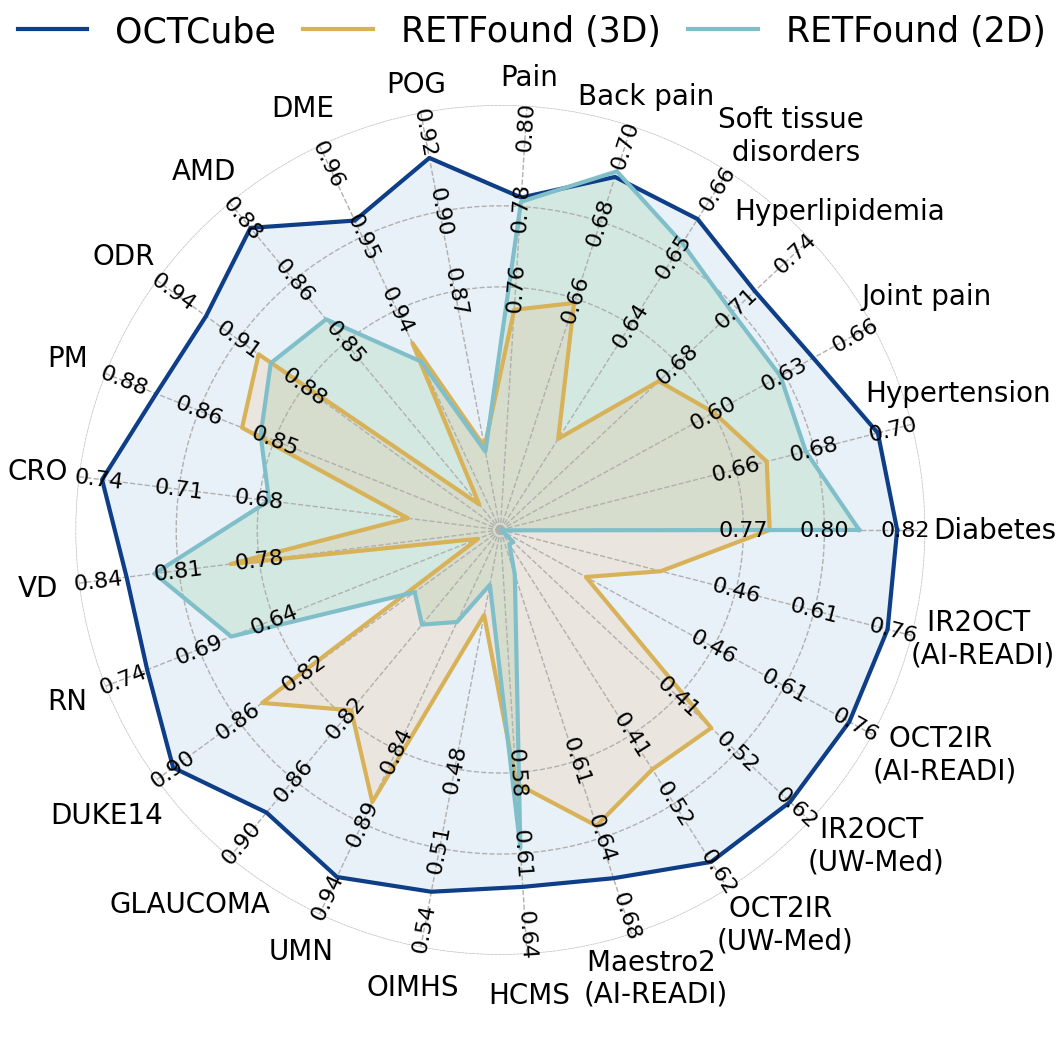
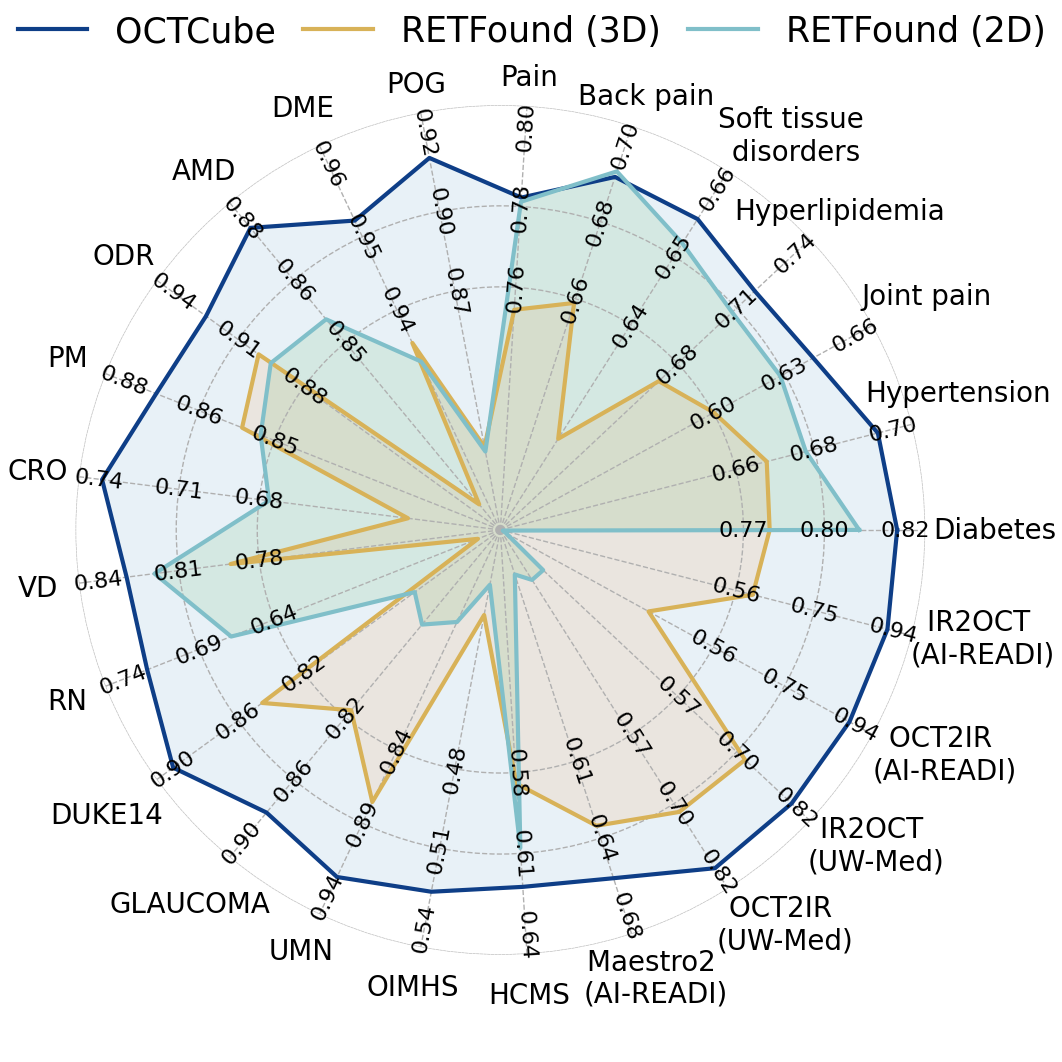
update results

diff --git a/retclip_plot_ci_together.py b/retclip_plot_ci_together.py
@@ -51,7 +51,7 @@ prefix_mapping = {'OCT_to_IR': 'image_to_text', 'IR_to_OCT': 'text_to_image'}
 col_mapping = {'recall@1':'R@1', 'recall@5':'R@5', 'recall@10':'R@10', 'mean rank':'mean_rank'}
 
 
-def plot_retclip_recall_and_mean_rank(axes, retclip_exp_res_df, prefix, col_names, reverse_plot=True, err_bar=True):
+def plot_retclip_recall_and_mean_rank(axes, retclip_exp_res_df, prefix, col_names, reverse_plot=True, err_bar=True, print_xlabels=False):
     plot_method = retclip_exp_res_df['Method'].tolist()
     print(plot_method)
     full_col_names = [f'{prefix} {col_name}' for col_name in col_names]
@@ -87,7 +87,8 @@ def plot_retclip_recall_and_mean_rank(axes, retclip_exp_res_df, prefix, col_name
                 print('y_std_err', y_std_err)
                 ax.errorbar((j + 1)*width, y[j], yerr=y_std_err, fmt='none', ecolor='k', capsize=4, zorder=4)
         ax.set_xticks([])
-        ax.set_xlabel(capitalize_first_letter(col_name), fontsize=15)
+        if print_xlabels:
+            ax.set_xlabel(capitalize_first_letter(col_name), fontsize=15)
         if i == 0:
             ax.set_ylabel(prefix.replace('_', ' '), fontsize=15)
 
@@ -142,7 +143,7 @@ def plot_retclip_exp_res(fig, ax, retclip_exp_res_df):
     second_row_prefix = 'IR_to_OCT'
     col_names = ['recall@1', 'recall@5', 'recall@10', 'mean rank']
     all_handles, all_labels = plot_retclip_recall_and_mean_rank(ax[0, :4], retclip_exp_res_df, first_row_prefix, col_names)
-    plot_retclip_recall_and_mean_rank(ax[1, :4], retclip_exp_res_df, second_row_prefix, col_names)
+    plot_retclip_recall_and_mean_rank(ax[1, :4], retclip_exp_res_df, second_row_prefix, col_names, print_xlabels=True)
     # fig.legend(all_handles, all_labels, loc='upper center', bbox_to_anchor=(0.5, 1.012), ncol=3, fontsize=25, frameon=False)
     # fig.tight_layout(rect=[0, 0.02, 1, 0.95])
     # fig.suptitle('UW-Medicine', fontsize=15, y=0.04)
@@ -161,7 +162,7 @@ retclip_exp_res = os.path.join(save_file_dir, 'retClip_exp_res_aireadi.csv')
 retclip_exp_res_df = pd.read_csv(retclip_exp_res)
 print(retclip_exp_res_df)
 
-def plot_retclip_recall_and_mean_rank(axes, retclip_exp_res_df, prefix, col_names, reverse_plot=True, err_bar=True):
+def plot_retclip_recall_and_mean_rank(axes, retclip_exp_res_df, prefix, col_names, reverse_plot=True, err_bar=True, print_xlabels=False):
     plot_method = retclip_exp_res_df['Method'].tolist()
     print(plot_method)
     full_col_names = [f'{prefix} {col_name}' for col_name in col_names]
@@ -197,7 +198,8 @@ def plot_retclip_recall_and_mean_rank(axes, retclip_exp_res_df, prefix, col_name
         line_y = np.mean(y_h) + np.std(y_h) / np.sqrt(len(y_h)) + delta_y
         stars = get_star_from_pvalue(p_value, star=True)
         ax.set_xticks([])
-        ax.set_xlabel(capitalize_first_letter(col_name), fontsize=15)
+        if print_xlabels:
+            ax.set_xlabel(capitalize_first_letter(col_name), fontsize=15)
         # if i == 0:
             # ax.set_ylabel(prefix.replace('_', ' '), fontsize=18)
         # y_max = np.max(y)
@@ -232,7 +234,7 @@ def plot_retclip_exp_res(fig, ax, retclip_exp_res_df):
     second_row_prefix = 'IR_to_OCT'
     col_names = ['recall@1', 'recall@5', 'recall@10', 'mean rank']
     all_handles, all_labels = plot_retclip_recall_and_mean_rank(ax[0, 4:], retclip_exp_res_df, first_row_prefix, col_names)
-    plot_retclip_recall_and_mean_rank(ax[1, 4:], retclip_exp_res_df, second_row_prefix, col_names)
+    plot_retclip_recall_and_mean_rank(ax[1, 4:], retclip_exp_res_df, second_row_prefix, col_names, print_xlabels=True)
     fig.legend(all_handles, all_labels, loc='upper center', bbox_to_anchor=(0.5, 1.03), ncol=3, fontsize=20, frameon=False)
     fig.tight_layout(rect=[0, 0.0, 1, 0.95])
     # fig.suptitle('AI-READI', fontsize=15, y=0.04)

diff --git a/reproduce_figure_1.py b/reproduce_figure_1.py
@@ -75,7 +75,7 @@ res_df_dict[('retfound', '3D')]['Maestro2 \n(AI-READI)'] = 0.6382
 res_df_dict[('MAE-joint', '3D')]['Maestro2 \n(AI-READI)'] = 0.6627
 
 plot_col_idx = ['recall@1', 'recall@5', 'recall@10', 'mean rank']
-plot_col = 0
+plot_col = 0 if plot_name == 'auroc' else 1
 for idx, row in retclip_exp_res_df.iterrows():
     task = row['Method']
     task_split = task.split(' ')
@@ -168,6 +168,8 @@ def plot_radar(df, ax, is_fill=True, is_box=False):
             if cat.endswith('AI-READI'):
                 cat = cat.replace(' AI-READI', '\n(AI-READI)')
         cat = cat.replace('recall@1', '')
+        cat = cat.replace('recall@5', '')
+        cat = cat.replace('recall@10', '')
 
         if 'EGFR' in cat or 'FAT1' in cat or 'KRAS' in cat or 'LRP1B' in cat or 'TP53' in cat or 'Exon' in cat or 'L858R' in cat or 'TMB' in cat or 'biomarker' in cat:
             #c = '#4daf4a'
